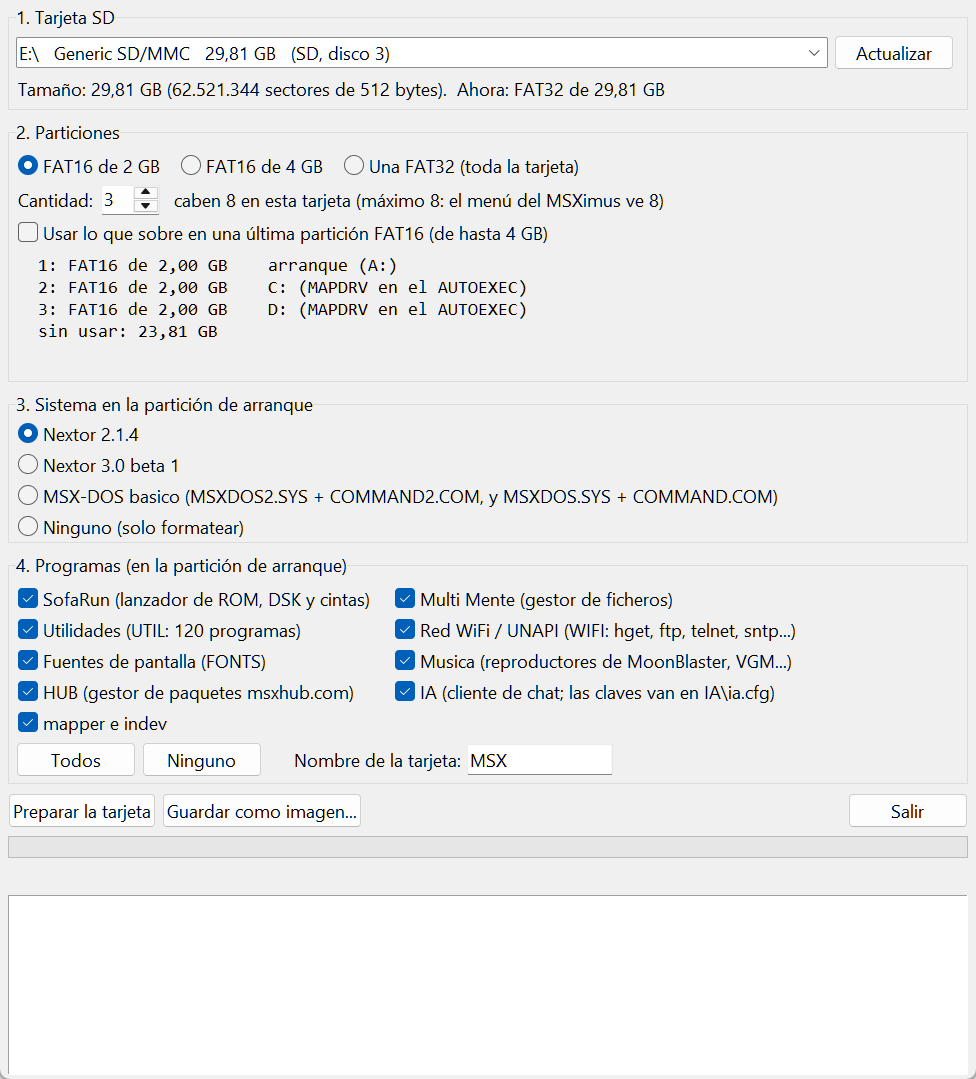
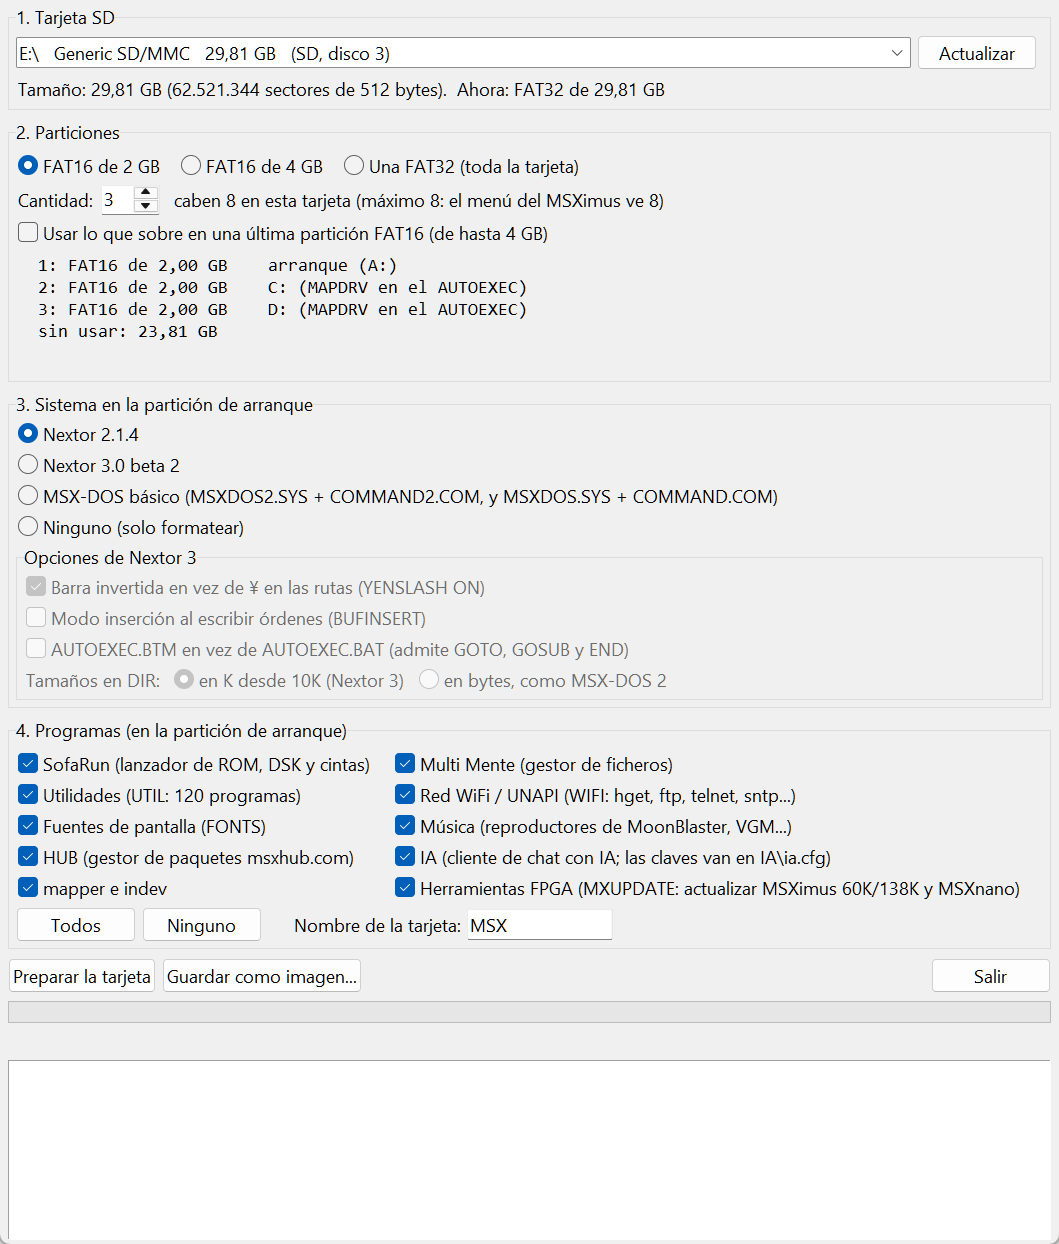
MSX SD Maker 1.2: casilla «Herramientas FPGA» con MXUPDATE.COM en la carpeta FPGA
- sd/extras/FPGA/MXUPDATE.COM: el de la v3.8.0b4 del MSXimus (md5 acd3870e9853), que actualiza el core y el pack del
  MSXimus 60K/138K y del MSXnano (2.1.1 o posterior) desde MSX-DOS, con un .UPD de la tarjeta o por WiFi (/N).
- contenido.py: el grupo "fpga" copia la carpeta FPGA a la particion de arranque y la anade al PATH del AUTOEXEC
  (al final). En la ventana es una casilla mas, marcada por defecto como las demas; --programas todos la incluye.
- VERSION 1.2; LEEME/README del paquete (tabla de programas, arbol de la tarjeta, PATH de ejemplo), LICENCIAS.md
  (MXUPDATE, GPL v3), sd/LEEME.md, LEEME.md y README.md; captura 1_ventana.png rehecha con la ventana actual.
- Pruebas: la referencia incluye extras/FPGA; probar_imagenes.sh 9/9.

diff --git a/sdmaker/contenido.py b/sdmaker/contenido.py
@@ -4,7 +4,8 @@ Las fuentes son las carpetas de sd/ de este repositorio (o, en el .exe, las que 
   base/               lo comun de las SD del MSXimus (MM, UTIL, WIFI, FONTS, musica...)
   nextor-2.1.4/       NEXTOR.SYS + COMMAND2.COM + bin/ (herramientas de Nextor 2)
   nextor-3.0.0-beta2/ NEXTOR.SYS + COMMAND3.COM + bin/ (herramientas de Nextor 3)
-  extras/             lo de la SD de la MSX Pico que no estaba en base: SOFARUN, hub, mapper, IA, indev.com
+  extras/             lo de la SD de la MSX Pico que no estaba en base (SOFARUN, hub, mapper, IA, indev.com) y FPGA
+                      (MXUPDATE.COM, que actualiza el core del MSXimus 60K/138K y del MSXnano desde MSX-DOS)
 El AUTOEXEC.BAT de base/ no se copia: se genera (PATH, alias y MAPDRV segun lo elegido y las particiones creadas)."""
 import os
 import sys
@@ -30,6 +31,7 @@ GRUPOS = [
     ("hub", "HUB (gestor de paquetes msxhub.com)", ["extras/hub"], ["hub"], []),
     ("ia", "IA (cliente de chat con IA; las claves van en IA\\ia.cfg)", ["extras/IA"], ["IA"], []),
     ("varios", "mapper e indev", ["extras/mapper", "extras/indev.com"], ["mapper"], []),
+    ("fpga", "Herramientas FPGA (MXUPDATE: actualizar MSXimus 60K/138K y MSXnano)", ["extras/FPGA"], ["FPGA"], []),
 ]
 SIEMPRE = ["FHUNT", "TMP"]      # FHUNT: el menu descarga del File-Hunter ahi y NO puede crear carpetas
 

diff --git a/sdmaker/__init__.py b/sdmaker/__init__.py
@@ -1,2 +1,2 @@
 """MSXsdmaker: tarjetas SD para MSXimus, MSXnano y MSX Pico."""
-VERSION = "1.1"
+VERSION = "1.2"

diff --git a/LEEME.md b/LEEME.md
@@ -13,7 +13,7 @@ Abrir `dist\MSXsdmaker.exe`: pide permisos de administrador (hacen falta para es
    - FAT16 de 2 GB o de 4 GB, tantas como quepan (hasta 8, las que ve el menú del MSXimus). Opcionalmente, una última con lo que sobre.
    - O una FAT32 con toda la tarjeta. Nextor 2.1.4 y 3.0 no leen FAT32: sirve para el menú del MSXimus (ROM y DSK) y la MSX Pico, no para arrancar MSX-DOS.
 3. **Sistema** en la partición 1: Nextor 2.1.4, Nextor 3.0 beta 2, MSX-DOS básico (`MSXDOS2.SYS` + `COMMAND2.COM`, y los de MSX-DOS 1) o ninguno.
-4. **Programas**: SofaRun, Multi Mente, UTIL, WiFi/UNAPI, fuentes, música, HUB, IA, mapper e indev. Se crean también `FHUNT` y `TMP` (el menú no puede crear carpetas) y `SAVES` y `SETTINGS` de SofaRun.
+4. **Programas**: SofaRun, Multi Mente, UTIL, WiFi/UNAPI, fuentes, música, HUB, IA, mapper e indev, y las herramientas FPGA (`FPGA\MXUPDATE.COM`, que actualiza el core del MSXimus 60K/138K y del MSXnano). Se crean también `FHUNT` y `TMP` (el menú no puede crear carpetas) y `SAVES` y `SETTINGS` de SofaRun.
 
 El `AUTOEXEC.BAT` se genera con lo elegido: `PATH`, alias de SofaRun y una línea `mapdrv c: 2 1 0` por cada partición de más (C:, D:, E:...). Con Nextor 3 (1.1) lleva además las opciones del recuadro: `YENSLASH ON` (la orden interna de COMMAND3.COM desde la beta 2; el `yenslash` a secas solo diría el estado), `SET BUFINSERT=ON`, `SET DIRK=0` y, si se elige, se llama `AUTOEXEC.BTM`. Desde la 1.1, una tarjeta más pequeña que una partición entera (las de "2 GB") lleva una sola con todo, y la imagen pregunta siempre el tamaño (1800M por defecto: cabe en cualquier tarjeta de 2 GB).
 
@@ -27,7 +27,7 @@ Igual que el `FDISK` de Nextor (`kernel/bank5/fdisk2.c`): partición 1 primaria,
 
 ## Contenido
 
-Sale de `sd/` y va dentro del `.exe`: `base/`, `nextor-2.1.4/`, `nextor-3.0.0-beta2/` y `extras/` (SOFARUN, hub, mapper, IA e indev de la SD de la MSX Pico); [`sd/LEEME.md`](sd/LEEME.md) explica cada carpeta. Para cambiar lo que se copia, se cambian esas carpetas y se vuelve a construir.
+Sale de `sd/` y va dentro del `.exe`: `base/`, `nextor-2.1.4/`, `nextor-3.0.0-beta2/` y `extras/` (SOFARUN, hub, mapper, IA e indev de la SD de la MSX Pico, y FPGA con MXUPDATE.COM); [`sd/LEEME.md`](sd/LEEME.md) explica cada carpeta. Para cambiar lo que se copia, se cambian esas carpetas y se vuelve a construir.
 
 Casi todo lo de `sd/` es de terceros (Nextor, MSX-DOS, SofaRun, Multi Mente, las herramientas UNAPI...) y va bajo la responsabilidad del autor de este proyecto: autores y licencias en [`paquete/LICENCIAS.md`](paquete/LICENCIAS.md), con la licencia de Nextor. El programa es GPL v3 ([`LICENSE`](LICENSE)).
 

diff --git a/paquete/LEEME.md b/paquete/LEEME.md
@@ -1,4 +1,4 @@
-# MSX SD Maker 1.1 — preparar la tarjeta SD
+# MSX SD Maker 1.2 — preparar la tarjeta SD
 
 *[English version](README.md)*
 
@@ -156,6 +156,7 @@ Se copian en la primera partición, cada uno en su carpeta. Marca los que quiera
 | HUB | `hub` | Cliente de MSX Hub, para instalar programas desde internet | `HUBG` o `HUB` |
 | IA | `IA` | Cliente de chat con IA; tus claves van en `IA\ia.cfg` | `IA` |
 | mapper e indev | `mapper`, `indev.com` | `MAPPER` desactiva el mapeador de MSX-DOS 2 para programas antiguos | por su nombre |
+| Herramientas FPGA | `FPGA` | `MXUPDATE`: actualiza el core y el pack del MSXimus 60K/138K y del MSXnano (2.1.1 o posterior) desde MSX-DOS, con un `.UPD` de la tarjeta o por WiFi (`MXUPDATE /N`). El MSXimus Z (Zynq) se actualiza por su cuenta | `MXUPDATE` |
 
 Siempre que haya sistema se crean también estas carpetas vacías. **No las borres**:
 
@@ -193,6 +194,7 @@ A:\
 ├── MM\  FONTS\                    Multi Mente y sus fuentes
 ├── UTIL\  WIFI\  musica\          utilidades, red y música
 ├── hub\  IA\  mapper\  indev.com
+├── FPGA\                          MXUPDATE: actualizar el core del MSXimus y del MSXnano
 ├── FHUNT\                         descargas del File-Hunter (no borrar)
 └── TMP\                           temporal (no borrar)
 ```
@@ -204,7 +206,7 @@ Las **particiones 2, 3…** quedan vacías para tus juegos y programas.
 Se genera según lo que hayas elegido. Con todo marcado y tres particiones queda así:
 
 ```
-PATH A:\;%1\BIN;%1\SOFARUN;%1\MM;%1\UTIL;%1\WIFI;%1\musica;%1\hub;%1\IA;%1\mapper
+PATH A:\;%1\BIN;%1\SOFARUN;%1\MM;%1\UTIL;%1\WIFI;%1\musica;%1\hub;%1\IA;%1\mapper;%1\FPGA
 SET TIMEZONE=+02:00
 mode 80
 ALIAS .BAS = "BASIC "

diff --git a/paquete/README.md b/paquete/README.md
@@ -1,4 +1,4 @@
-# MSX SD Maker 1.1 — preparing the SD card
+# MSX SD Maker 1.2 — preparing the SD card
 
 *[Versión en castellano](LEEME.md)*
 
@@ -158,6 +158,7 @@ They are copied to the first partition, each in its own folder. Tick the ones yo
 | HUB | `hub` | MSX Hub client, to install programs from the internet | `HUBG` or `HUB` |
 | IA | `IA` | AI chat client; your keys go in `IA\ia.cfg` | `IA` |
 | mapper e indev | `mapper`, `indev.com` | `MAPPER` disables the MSX-DOS 2 mapper routines for old software | by name |
+| Herramientas FPGA | `FPGA` | `MXUPDATE`: updates the core and the pack of the MSXimus 60K/138K and the MSXnano (2.1.1 or later) from MSX-DOS, from a `.UPD` on the card or over WiFi (`MXUPDATE /N`). The MSXimus Z (Zynq) updates itself | `MXUPDATE` |
 
 Whenever a system is installed these empty folders are created too. **Do not delete them**:
 
@@ -195,6 +196,7 @@ A:\
 ├── MM\  FONTS\                    Multi Mente and its fonts
 ├── UTIL\  WIFI\  musica\          utilities, networking and music
 ├── hub\  IA\  mapper\  indev.com
+├── FPGA\                          MXUPDATE: updating the MSXimus and MSXnano core
 ├── FHUNT\                         File-Hunter downloads (do not delete)
 └── TMP\                           temporary (do not delete)
 ```
@@ -206,7 +208,7 @@ A:\
 It is generated from your choices. With everything ticked and three partitions it looks like this:
 
 ```
-PATH A:\;%1\BIN;%1\SOFARUN;%1\MM;%1\UTIL;%1\WIFI;%1\musica;%1\hub;%1\IA;%1\mapper
+PATH A:\;%1\BIN;%1\SOFARUN;%1\MM;%1\UTIL;%1\WIFI;%1\musica;%1\hub;%1\IA;%1\mapper;%1\FPGA
 SET TIMEZONE=+02:00
 mode 80
 ALIAS .BAS = "BASIC "

diff --git a/README.md b/README.md
@@ -6,7 +6,7 @@
 
 - partitions it like Nextor's `FDISK`: FAT16 of 2 or 4 GB (up to 8), or one FAT32;
 - copies the system: Nextor 2.1.4, Nextor 3.0 beta 2 or MSX-DOS;
-- copies the programs: SofaRun, Multi Mente, utilities, UNAPI networking, music…, and writes the `AUTOEXEC.BAT`;
+- copies the programs: SofaRun, Multi Mente, utilities, UNAPI networking, music…, and the FPGA tools (`MXUPDATE`, which updates the MSXimus and MSXnano core from MSX-DOS), and writes the `AUTOEXEC.BAT`;
 - reads everything back and checks it by CRC. It can also write a card image instead of a card.
 
 How to use it: [paquete/README.md](paquete/README.md) (English) · [paquete/LEEME.md](paquete/LEEME.md) (castellano). The program itself is in Spanish.

diff --git a/sd/LEEME.md b/sd/LEEME.md
@@ -13,7 +13,8 @@ sd/
 │   └── TMP/     ← 🚨 VACÍA A PROPÓSITO: NO BORRAR
 ├── nextor-2.1.4/            NEXTOR.SYS + COMMAND2.COM + MSXDOS2.SYS…
 ├── nextor-3.0.0-beta2/      NEXTOR.SYS + COMMAND3.COM + bin/ (las 25 herramientas oficiales)
-└── extras/                  SOFARUN, hub, mapper, IA, indev.com (de la SD de la MSX Pico, 30/09)
+└── extras/                  SOFARUN, hub, mapper, IA, indev.com (de la SD de la MSX Pico, 30/09) y FPGA
+                             (MXUPDATE.COM del MSXimus V3.8, md5 acd3870e9853)
 ```
 
 **Más fácil: MSX SD Maker** (este repositorio) particiona, formatea y copia todo esto a una tarjeta, con el

diff --git a/paquete/LICENCIAS.md b/paquete/LICENCIAS.md
@@ -26,6 +26,7 @@
 | `WIFI\FH.COM` (File-Hunter) | See `WIFI\FH_LICENSE.TXT` | See that file |
 | `UTIL\`, `musica\`, `mapper\`, `indev.com` | Various authors of the MSX scene | Freeware |
 | `IA\` | Albert (Papipapito) | GPL v3 |
+| `FPGA\MXUPDATE.COM` | Albert (Papipapito), proyecto MSXimus | GPL v3 |
 
 MSX-DOS 1 (`MSXDOS.SYS`, `COMMAND.COM`) no forma parte del código fuente de Nextor y no está cubierto por su licencia. Se incluye bajo la responsabilidad del autor de este proyecto, solo para uso no comercial.
 
